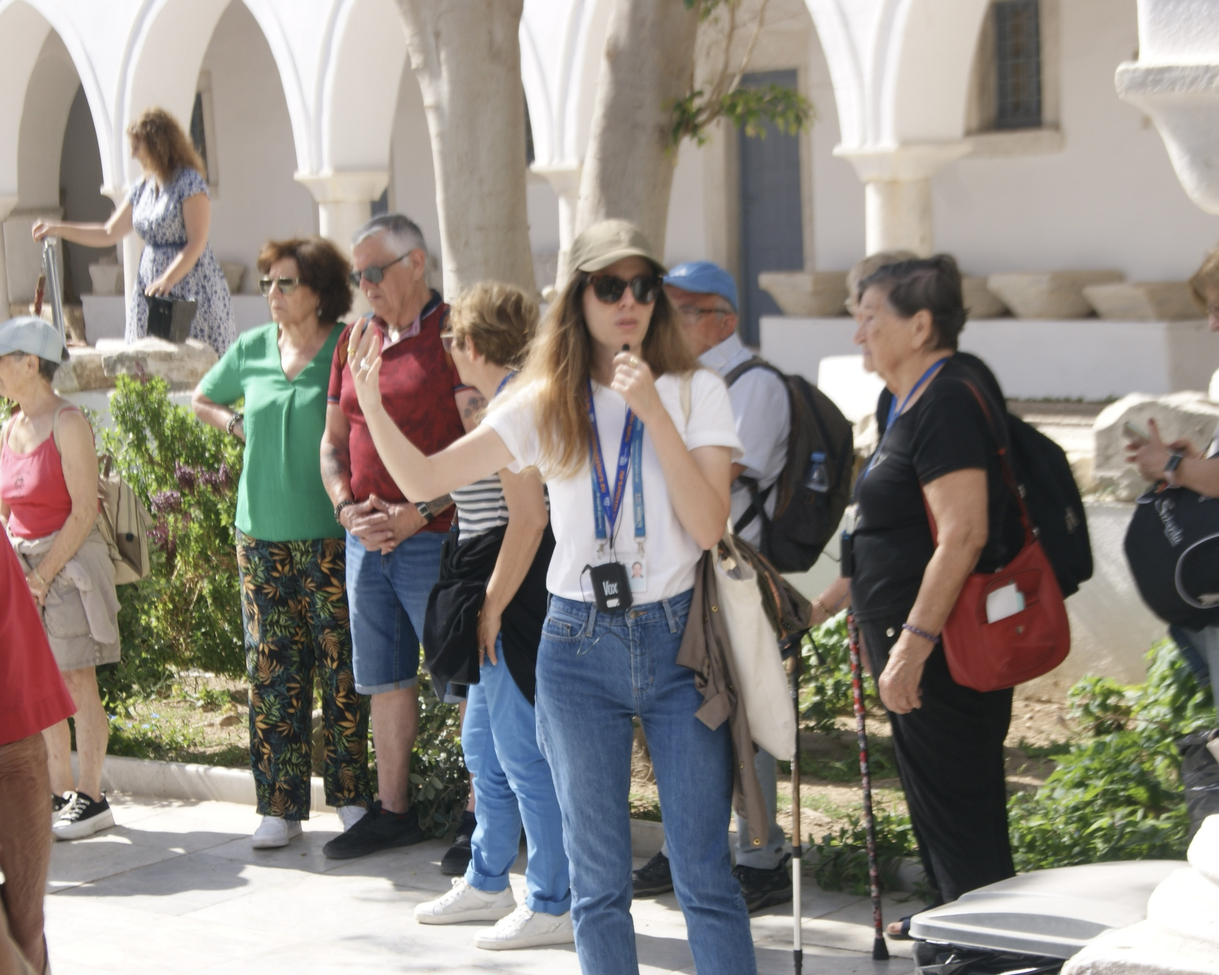
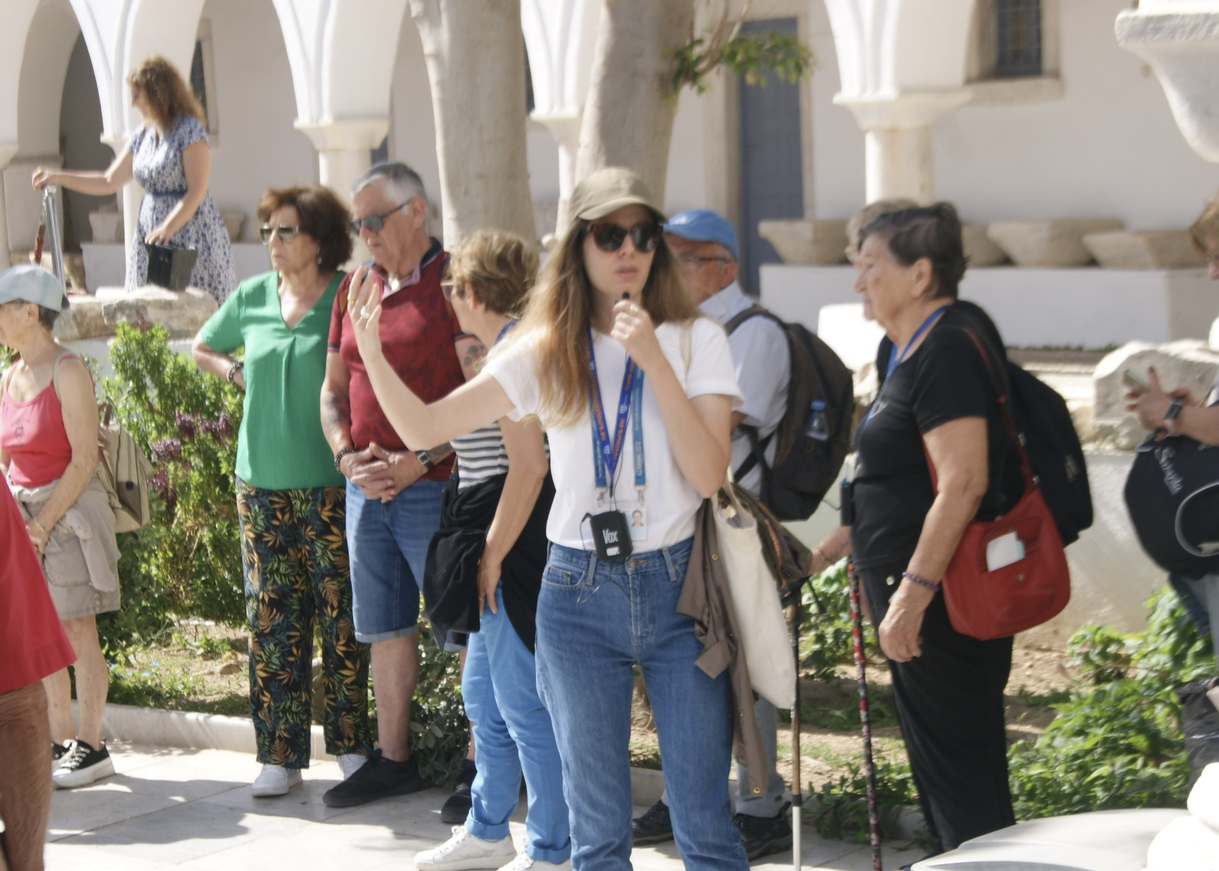
Files upload

diff --git a/style.css b/style.css
@@ -2794,7 +2794,7 @@ html, body {
 margin-left: -150px;
 margin-right: -10px;
 padding-left: 70px;
-margin-top: 310px;
+margin-top: 290px;
 
 }
 
@@ -2859,6 +2859,7 @@ padding-left: 70px;
     max-width: 170%;
     height: auto;
     border-radius: 0px;
+    box-shadow: 0 0px 0px rgba(0, 0, 0, 0.0);
 }
 
 
@@ -2894,7 +2895,7 @@ padding-left: 70px;
         margin-top: -610px;
         flex: 1;
         text-align: right;
-        padding-left: 70px;
+        padding-left: 10%;
     }
 
     .slideshow-container img {
